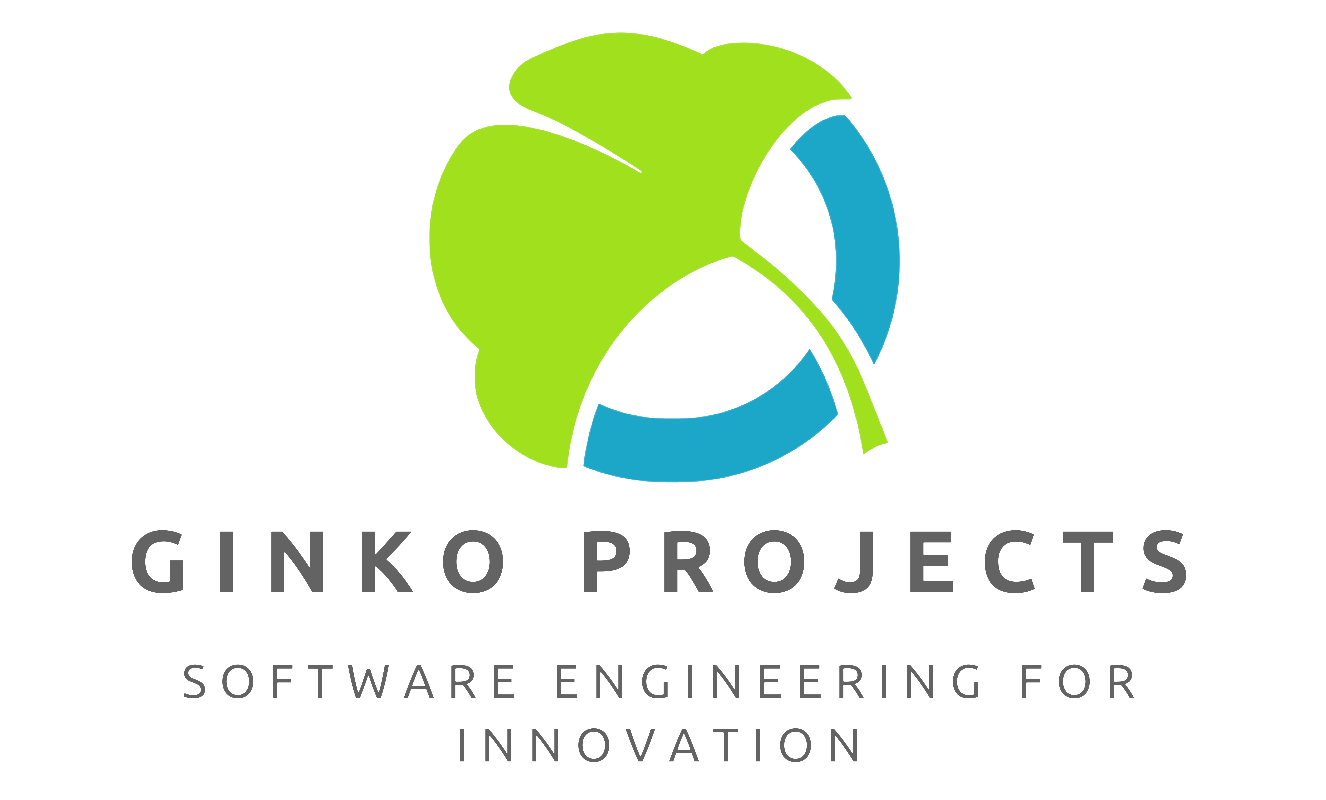
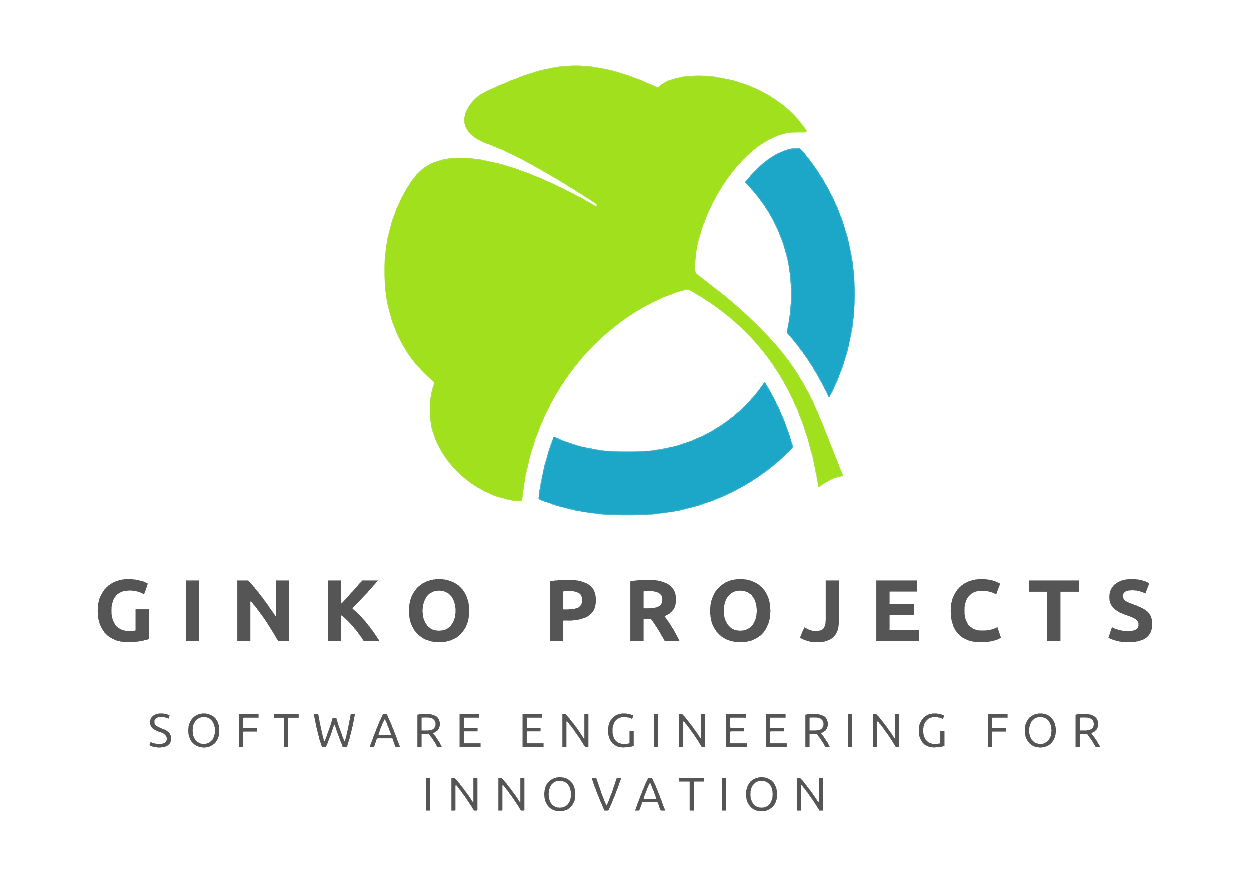
More responsive images

diff --git a/docs/index.html b/docs/index.html
@@ -19,6 +19,11 @@
         body {
             background-color: #1a1c18;
         }
+
+        img {
+            max-width: 100%;
+            height: auto;
+        }
     </style>
 </head>
 
